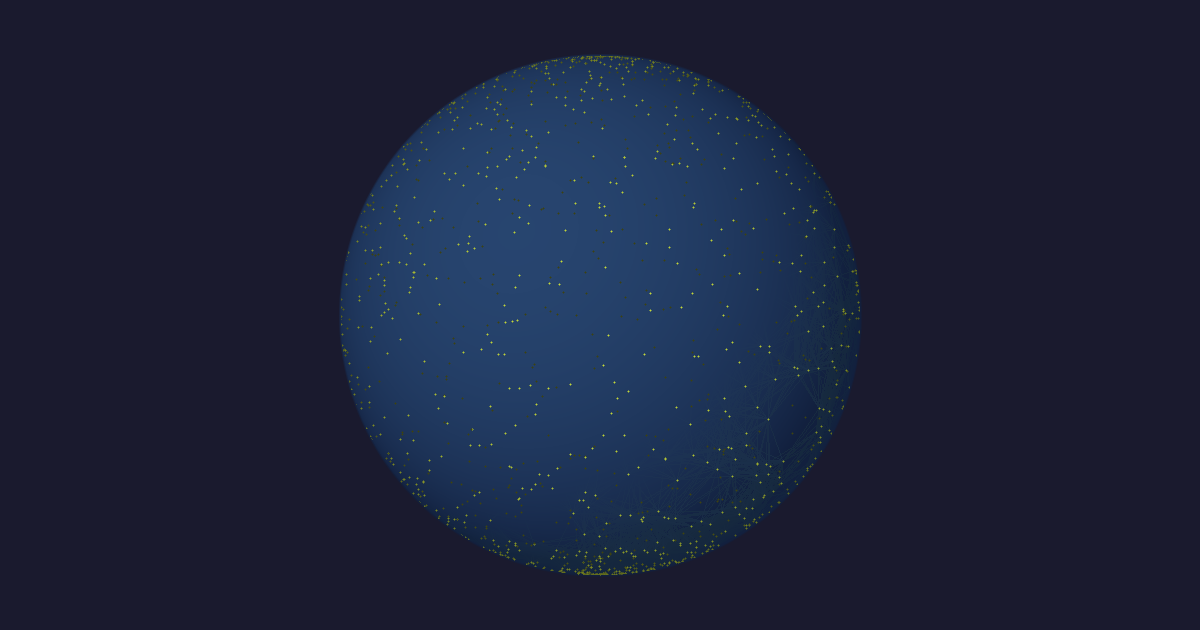
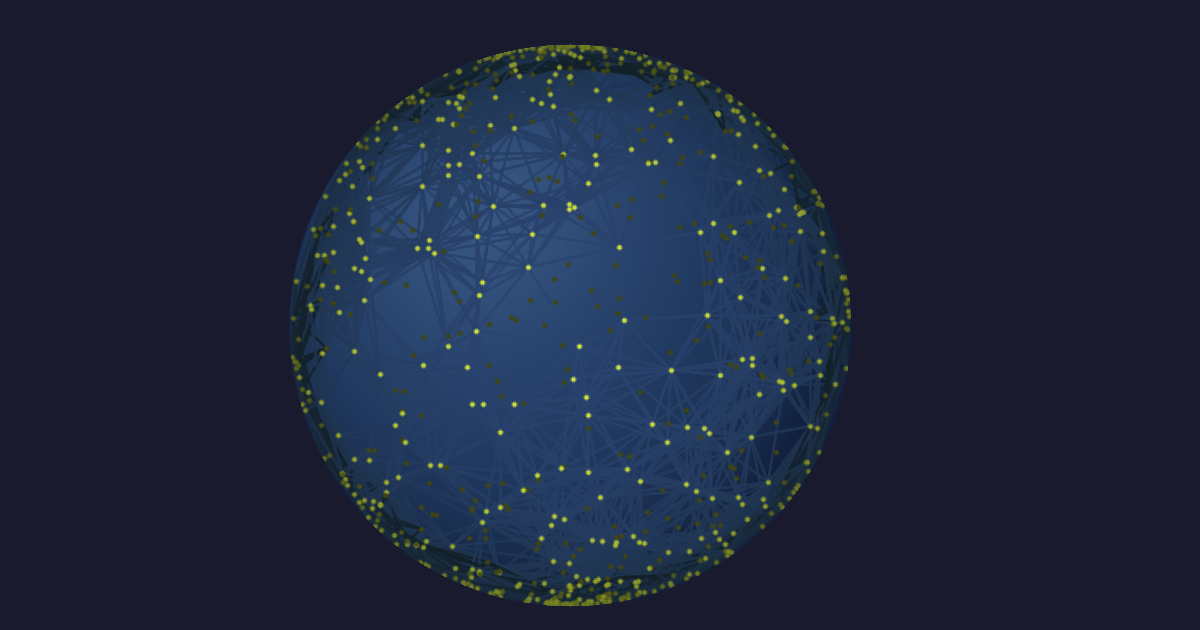
OG-Bild verbessert, MAX_ITER auf 13
- og-image.png: dickere Linien (3px), größere Punkte mit Glow,
  Specular-Highlights auf der Kugel
- MAX_ITER auf 13 in allen Dateien (Speicherschutz)

diff --git a/Wuerfel-zu-Kugel.html b/Wuerfel-zu-Kugel.html
@@ -100,7 +100,7 @@
   Kanten: <span id="s-edges">12</span> &middot;
   Flächen: <span id="s-faces">6</span> &middot;
   Dauer: <span id="s-time">-</span> &middot;
-  Vorberechnet: <span id="s-precomp">0</span>/<span id="s-max">14</span> &middot;
+  Vorberechnet: <span id="s-precomp">0</span>/<span id="s-max">13</span> &middot;
   <span id="s-progress"></span>
 </div>
 
@@ -483,7 +483,7 @@ dl2.position.set(-5, -2, -5);
 scene.add(dl2);
 
 // ---- State ----
-const MAX_ITER = 14;
+const MAX_ITER = 13;
 const cubePositions = new Float32Array([
   -1,-1,-1, -1,-1,1, -1,1,-1, -1,1,1,
    1,-1,-1,  1,-1,1,  1,1,-1,  1,1,1

diff --git a/all-in-one.html b/all-in-one.html
@@ -100,7 +100,7 @@
   Kanten: <span id="s-edges">12</span> &middot;
   Flächen: <span id="s-faces">6</span> &middot;
   Dauer: <span id="s-time">-</span> &middot;
-  Vorberechnet: <span id="s-precomp">0</span>/<span id="s-max">14</span> &middot;
+  Vorberechnet: <span id="s-precomp">0</span>/<span id="s-max">13</span> &middot;
   <span id="s-progress"></span>
 </div>
 
@@ -483,7 +483,7 @@ dl2.position.set(-5, -2, -5);
 scene.add(dl2);
 
 // ---- State ----
-const MAX_ITER = 14;
+const MAX_ITER = 13;
 const cubePositions = new Float32Array([
   -1,-1,-1, -1,-1,1, -1,1,-1, -1,1,1,
    1,-1,-1,  1,-1,1,  1,1,-1,  1,1,1

diff --git a/index.html b/index.html
@@ -92,7 +92,7 @@
   Kanten: <span id="s-edges">12</span> &middot;
   Flächen: <span id="s-faces">6</span> &middot;
   Dauer: <span id="s-time">-</span> &middot;
-  Vorberechnet: <span id="s-precomp">0</span>/<span id="s-max">14</span> &middot;
+  Vorberechnet: <span id="s-precomp">0</span>/<span id="s-max">13</span> &middot;
   <span id="s-progress"></span>
 </div>
 
@@ -186,7 +186,7 @@ dl2.position.set(-5, -2, -5);
 scene.add(dl2);
 
 // ---- State ----
-const MAX_ITER = 14;
+const MAX_ITER = 13;
 function makeCube() {
   const s = 1;
   return [
